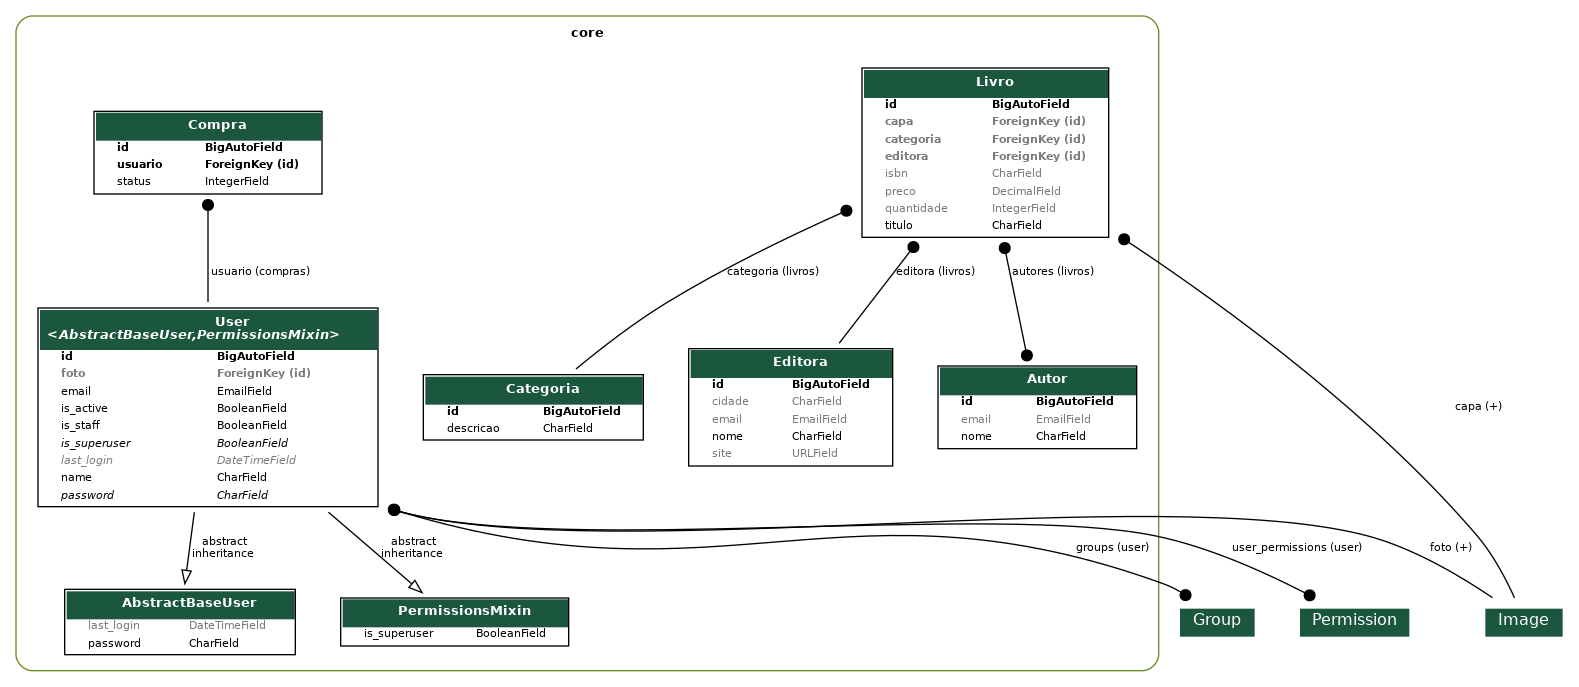
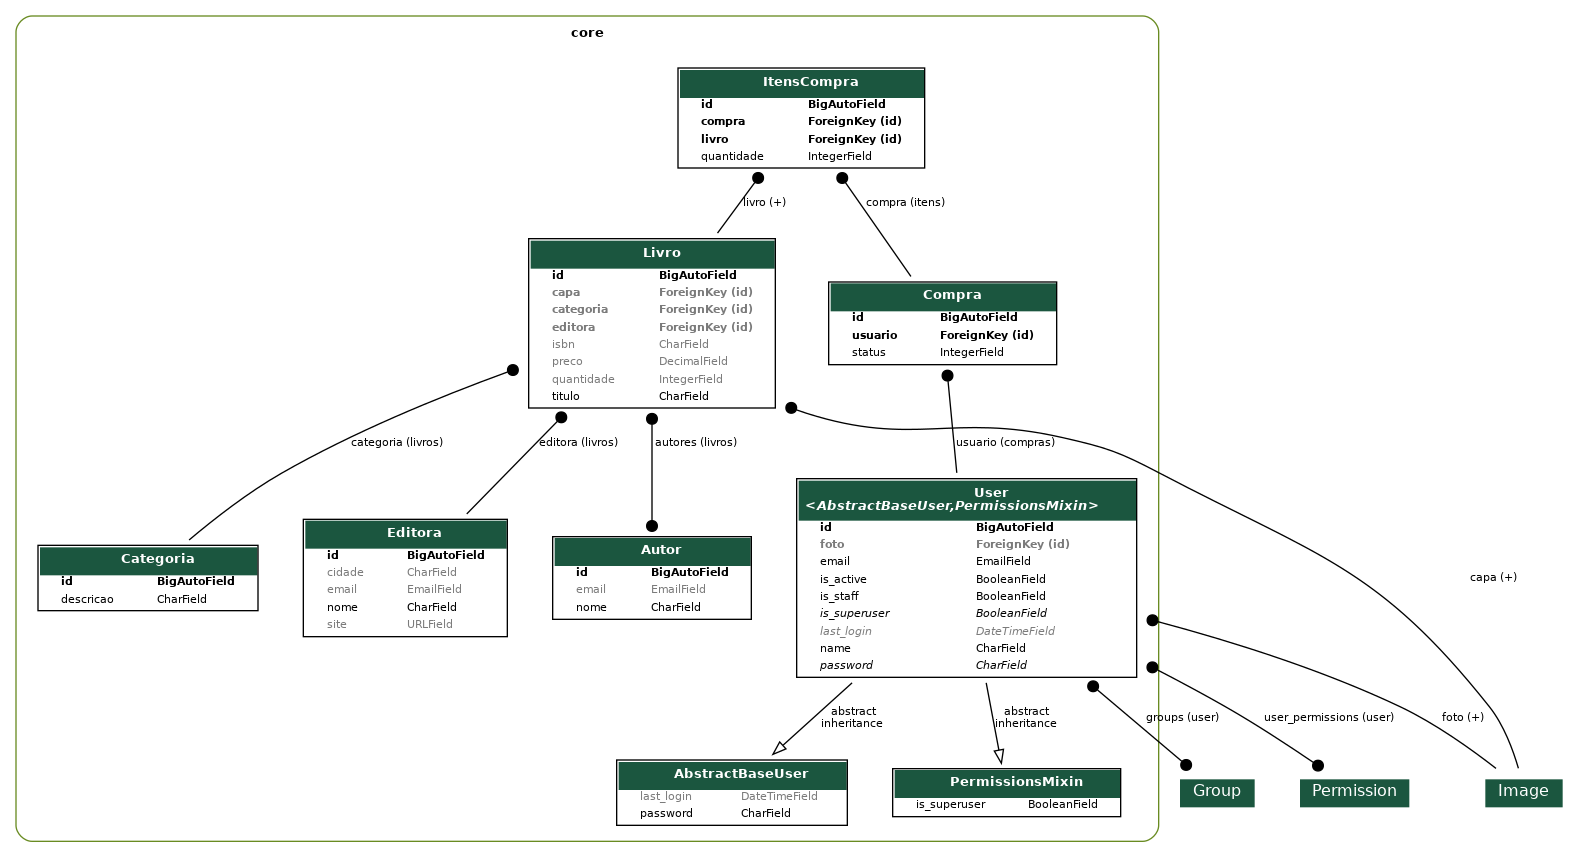
Criação dos itens da compra

diff --git a/core/migrations/0015_itenscompra.py b/core/migrations/0015_itenscompra.py
@@ -1,0 +1,31 @@
+# Generated by Django 5.0.2 on 2024-08-30 11:46
+
+import django.db.models.deletion
+from django.db import migrations, models
+
+
+class Migration(migrations.Migration):
+
+    dependencies = [
+        ("core", "0014_compra"),
+    ]
+
+    operations = [
+        migrations.CreateModel(
+            name="ItensCompra",
+            fields=[
+                ("id", models.BigAutoField(auto_created=True, primary_key=True, serialize=False, verbose_name="ID")),
+                ("quantidade", models.IntegerField(default=1)),
+                (
+                    "compra",
+                    models.ForeignKey(
+                        on_delete=django.db.models.deletion.CASCADE, related_name="itens", to="core.compra"
+                    ),
+                ),
+                (
+                    "livro",
+                    models.ForeignKey(on_delete=django.db.models.deletion.PROTECT, related_name="+", to="core.livro"),
+                ),
+            ],
+        ),
+    ]

diff --git a/core/models/compra.py b/core/models/compra.py
@@ -1,5 +1,6 @@
 from django.db import models
 
+from .livro import Livro
 from .user import User
 
 
@@ -12,3 +13,9 @@ class Compra(models.Model):
 
     usuario = models.ForeignKey(User, on_delete=models.PROTECT, related_name="compras")
     status = models.IntegerField(choices=StatusCompra.choices, default=StatusCompra.CARRINHO)
+
+
+class ItensCompra(models.Model):
+    compra = models.ForeignKey(Compra, on_delete=models.CASCADE, related_name="itens")
+    livro = models.ForeignKey(Livro, on_delete=models.PROTECT, related_name="+")
+    quantidade = models.IntegerField(default=1)

diff --git a/core/admin.py b/core/admin.py
@@ -6,7 +6,7 @@ from django.contrib import admin
 from django.contrib.auth.admin import UserAdmin as BaseUserAdmin
 from django.utils.translation import gettext_lazy as _
 
-from core.models import Autor, Categoria, Compra, Editora, Livro, User
+from core.models import Autor, Categoria, Compra, Editora, ItensCompra, Livro, User
 
 
 @admin.register(User)

diff --git a/core/models/__init__.py b/core/models/__init__.py
@@ -3,4 +3,4 @@ from .categoria import Categoria
 from .editora import Editora
 from .autor import Autor
 from .livro import Livro
-from .compra import Compra
+from .compra import Compra, ItensCompra
